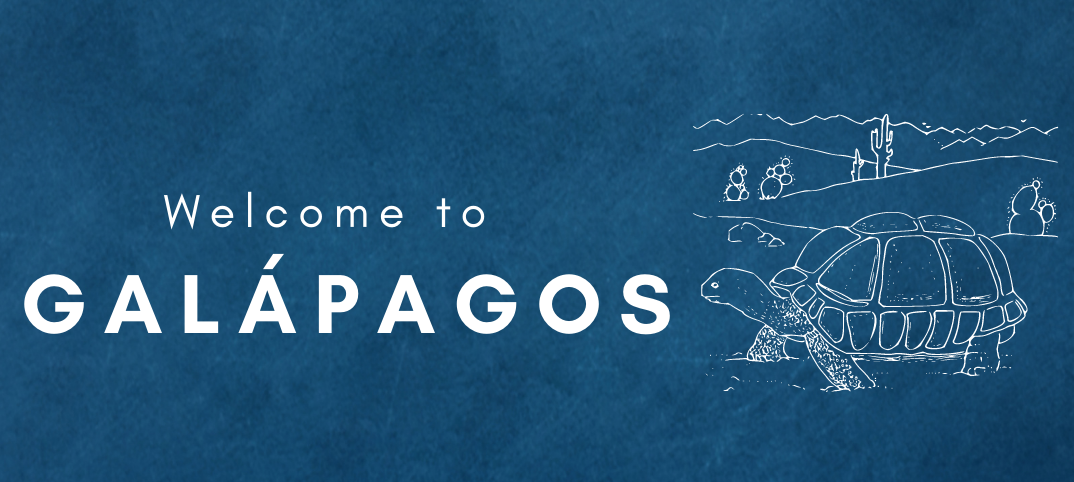
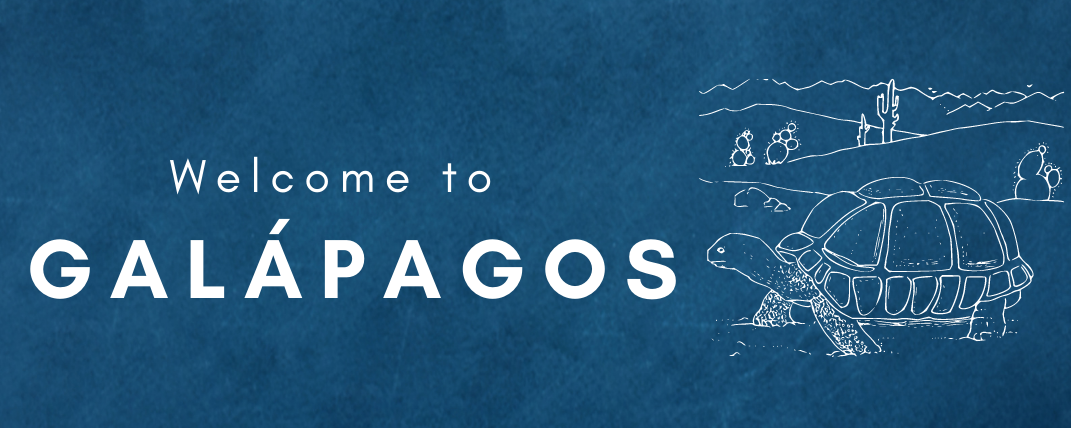
fixed home screen

Changed region(s): [[0.0, 0.1822, 1.0, 0.8505], [0.1541, 0.3645, 0.4622, 0.486]]

diff --git a/main-app/screens/Home/home.js b/main-app/screens/Home/home.js
@@ -94,7 +94,7 @@ class Home extends React.Component {
       <ImageBackground source={image} resizeMode="cover" style={styles1.image}>
         <Image
             source={require('../../app/assets/images/welcome.png')}
-            style={{width: entireScreenWidth, height: 200}}
+            style={{width: entireScreenWidth, height: 150}}
         />
         <TouchableOpacity
             style={styles.buttonContainer}
